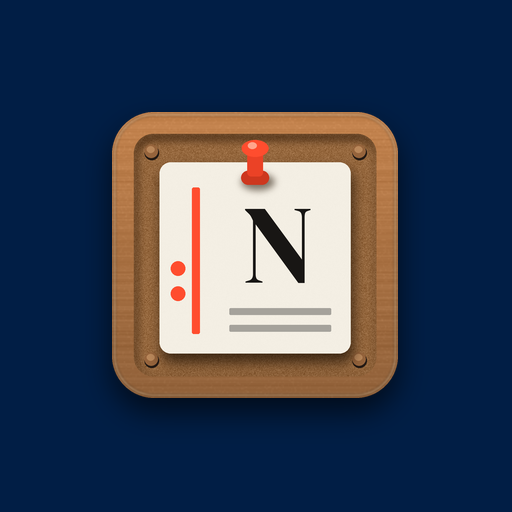
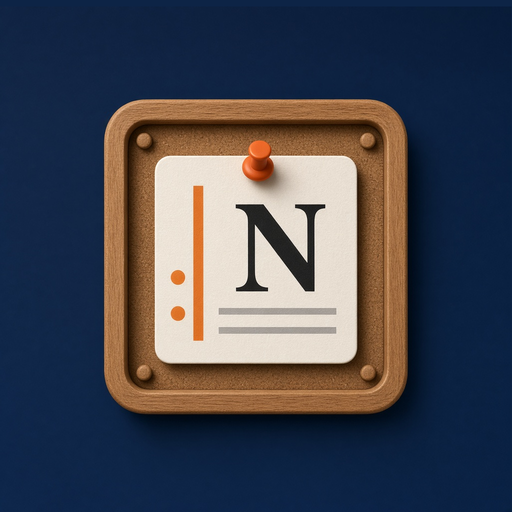
실사 마스터 기반 아이콘·OG·파비콘(48+ 누끼), v11

Changed region(s): [[0.1875, 0.1875, 0.8438, 0.8438]]

diff --git a/politicians/index.html b/politicians/index.html
@@ -6,12 +6,12 @@
 <meta name="viewport" content="width=device-width,initial-scale=1,viewport-fit=cover">
 <title>정치인 DB · NewsBoard</title>
 <meta name="description" content="역대 국회의원 전원의 당선·정당 이력, 발의 법안, 뉴스 타임라인을 출처와 함께 정리한 공인 데이터베이스">
-<meta property="og:type" content="website"><meta property="og:site_name" content="NewsBoard"><meta property="og:title" content="정치인 DB — 역대 국회의원 타임라인"><meta property="og:description" content="당선·정당 이력, 발의 법안, 뉴스 타임라인을 출처와 함께"><meta property="og:image" content="https://pyw31337.github.io/news/og-image.png?v=10"><meta property="og:url" content="https://pyw31337.github.io/news/politicians/">
+<meta property="og:type" content="website"><meta property="og:site_name" content="NewsBoard"><meta property="og:title" content="정치인 DB — 역대 국회의원 타임라인"><meta property="og:description" content="당선·정당 이력, 발의 법안, 뉴스 타임라인을 출처와 함께"><meta property="og:image" content="https://pyw31337.github.io/news/og-image.png?v=11"><meta property="og:url" content="https://pyw31337.github.io/news/politicians/">
 <meta name="theme-color" content="#0f1630">
 <meta name="referrer" content="no-referrer">
 <link rel="manifest" href="manifest.webmanifest">
-<link rel="icon" href="../favicon.ico?v=10" sizes="any"><link rel="icon" type="image/png" href="../icons/favicon-32.png?v=10" sizes="32x32"><link rel="icon" type="image/png" href="../icons/favicon-16.png?v=10" sizes="16x16">
-<link rel="apple-touch-icon" href="../icons/apple-touch-icon.png?v=8">
+<link rel="icon" href="../favicon.ico?v=11" sizes="any"><link rel="icon" type="image/png" href="../icons/favicon-32.png?v=11" sizes="32x32"><link rel="icon" type="image/png" href="../icons/favicon-16.png?v=11" sizes="16x16"><link rel="icon" type="image/png" href="../icons/favicon-192.png?v=11" sizes="192x192">
+<link rel="apple-touch-icon" href="../icons/apple-touch-icon.png?v=11">
 <meta name="apple-mobile-web-app-capable" content="yes">
 <meta name="mobile-web-app-capable" content="yes">
 <meta name="apple-mobile-web-app-status-bar-style" content="black-translucent">

diff --git a/index.html b/index.html
@@ -11,7 +11,7 @@
 <meta property="og:site_name" content="NewsBoard">
 <meta property="og:title" content="NewsBoard — 오늘의 이슈와 사건의 흐름">
 <meta property="og:description" content="포털에서 가장 많이 회자된 오늘의 이슈 10개와, 인물·장소·사건을 따라가는 타임라인">
-<meta property="og:image" content="https://pyw31337.github.io/news/og-image.png?v=10">
+<meta property="og:image" content="https://pyw31337.github.io/news/og-image.png?v=11">
 <meta property="og:image:width" content="1200"><meta property="og:image:height" content="630">
 <meta property="og:url" content="https://pyw31337.github.io/news/">
 <meta property="og:locale" content="ko_KR">
@@ -21,8 +21,8 @@
 <meta name="theme-color" content="#0f1630">
 <meta name="referrer" content="no-referrer">
 <link rel="manifest" href="manifest.webmanifest">
-<link rel="icon" href="favicon.ico?v=10" sizes="any"><link rel="icon" type="image/png" href="icons/favicon-32.png?v=10" sizes="32x32"><link rel="icon" type="image/png" href="icons/favicon-16.png?v=10" sizes="16x16">
-<link rel="apple-touch-icon" href="icons/apple-touch-icon.png?v=8">
+<link rel="icon" href="favicon.ico?v=11" sizes="any"><link rel="icon" type="image/png" href="icons/favicon-32.png?v=11" sizes="32x32"><link rel="icon" type="image/png" href="icons/favicon-16.png?v=11" sizes="16x16"><link rel="icon" type="image/png" href="icons/favicon-192.png?v=11" sizes="192x192">
+<link rel="apple-touch-icon" href="icons/apple-touch-icon.png?v=11">
 <meta name="apple-mobile-web-app-capable" content="yes">
 <meta name="mobile-web-app-capable" content="yes">
 <meta name="apple-mobile-web-app-status-bar-style" content="black-translucent">

diff --git a/admin/index.html b/admin/index.html
@@ -8,7 +8,7 @@
 <meta name="referrer" content="no-referrer">
 <meta name="theme-color" content="#0f1630">
 <title>NewsBoard 관리자</title>
-<link rel="icon" href="../favicon.ico?v=10" sizes="any"><link rel="icon" type="image/png" href="../icons/favicon-32.png?v=10" sizes="32x32"><link rel="icon" type="image/png" href="../icons/favicon-16.png?v=10" sizes="16x16">
+<link rel="icon" href="../favicon.ico?v=11" sizes="any"><link rel="icon" type="image/png" href="../icons/favicon-32.png?v=11" sizes="32x32"><link rel="icon" type="image/png" href="../icons/favicon-16.png?v=11" sizes="16x16"><link rel="icon" type="image/png" href="../icons/favicon-192.png?v=11" sizes="192x192">
 <link rel="stylesheet" href="https://cdn.jsdelivr.net/gh/orioncactus/pretendard@v1.3.9/dist/web/variable/pretendardvariable-dynamic-subset.min.css">
 <link rel="stylesheet" href="admin.css?v=1">
 </head>

diff --git a/sw.js b/sw.js
@@ -1,4 +1,4 @@
-const V='nb-v10',SHELL=['./','index.html','assets/style.css?v=7','assets/app.js?v=7','manifest.webmanifest','icons/icon-192.png','og-image.png','favicon.ico'];
+const V='nb-v11',SHELL=['./','index.html','assets/style.css?v=7','assets/app.js?v=7','manifest.webmanifest','icons/icon-192.png','og-image.png','favicon.ico'];
 self.addEventListener('install',e=>{e.waitUntil(caches.open(V).then(c=>c.addAll(SHELL)));self.skipWaiting()});
 self.addEventListener('activate',e=>{e.waitUntil(caches.keys().then(ks=>Promise.all(ks.filter(k=>k!==V).map(k=>caches.delete(k)))));self.clients.claim()});
 self.addEventListener('fetch',e=>{const u=new URL(e.request.url);if(e.request.method!=='GET'||u.origin!==location.origin)return;

diff --git a/scripts/make_icons_photo.py b/scripts/make_icons_photo.py
@@ -1,0 +1,43 @@
+#!/usr/bin/env python3
+"""실사 마스터(icons/source/s3_photo_master.jpg, 1024 네이비 배경) 기준 아이콘 생성.
+앱아이콘=사진 그대로 축소, 파비콘 48+ = 둥근사각 알파마스크 누끼, OG = 누끼 오브젝트 배치. 16/24/32는 make_small_favicons.py."""
+import os, runpy
+from PIL import Image, ImageDraw, ImageFilter, ImageFont
+R=os.path.join(os.path.dirname(os.path.abspath(__file__)),'..'); I=os.path.join(R,'icons')
+src=Image.open(os.path.join(I,'source/s3_photo_master.jpg')).convert('RGB')
+BOX=(211,187,816,811); RAD=76
+# 앱 아이콘(배경 유지): 오브젝트 중심을 화면 중앙으로 살짝 보정
+cx=(BOX[0]+BOX[2])/2; cy=(BOX[1]+BOX[3])/2
+canvas=src.resize((1024,1024)); pad=Image.new('RGB',(1100,1100),src.getpixel((512,1010)))
+pad.paste(src,(38,38)); full=pad.crop((int(38+cx-512),int(38+cy-512),int(38+cx+512),int(38+cy+512)))
+for n,f in ((512,'icon-512.png'),(192,'icon-192.png'),(180,'apple-touch-icon.png')): full.resize((n,n),Image.LANCZOS).save(os.path.join(I,f))
+# 누끼
+S=4; m=Image.new('L',(1024*S,1024*S),0); ImageDraw.Draw(m).rounded_rectangle([v*S for v in BOX],RAD*S,fill=255)
+m=m.resize((1024,1024),Image.LANCZOS); obj=src.convert('RGBA'); obj.putalpha(m); obj=obj.crop(BOX)
+def withshadow(o,n):
+    w=int(n*.86); h=int(w*o.height/o.width); o=o.resize((w,h),Image.LANCZOS)
+    c=Image.new('RGBA',(n,n),(0,0,0,0)); x=(n-w)//2; y=(n-h)//2-int(n*.02)
+    sh=Image.new('L',(n,n),0); sh.paste(o.split()[3].point(lambda v:v*110//255),(x,y+int(n*.03)))
+    c.paste((0,0,0,255),(0,0),sh.filter(ImageFilter.GaussianBlur(n*.025))); c.alpha_composite(o,(x,y)); return c
+withshadow(obj,512).save(os.path.join(I,'favicon-512.png')); withshadow(obj,192).save(os.path.join(I,'favicon-192.png'))
+f48=obj.resize((48,48),Image.LANCZOS); f48.save(os.path.join(I,'favicon-48.png'))
+# maskable: 오브젝트 50%
+bg=Image.new('RGB',(1024,1024),src.getpixel((512,1010))); bg=full.resize((32,32)).resize((1024,1024),Image.BICUBIC); bg.paste(src.getpixel((60,60)),(0,0,1024,1024))
+o=obj.resize((512,int(512*obj.height/obj.width)),Image.LANCZOS)
+sh=Image.new('L',(1024,1024),0); sh.paste(o.split()[3].point(lambda v:v*150//255),(256,256+24)); bg.paste((0,0,0),(0,0),sh.filter(ImageFilter.GaussianBlur(28)))
+bg.paste(o,(256,256),o); bg.resize((512,512),Image.LANCZOS).save(os.path.join(I,'maskable-512.png'))
+# 소형(픽셀) + ico
+small=runpy.run_path(os.path.join(R,'scripts/make_small_favicons.py'))
+for n in (16,24,32): small['draw'](n).save(os.path.join(I,f'favicon-{n}.png'))
+f48.save(os.path.join(R,'favicon.ico'),sizes=[(16,16),(32,32),(48,48)],append_images=[small['draw'](16),small['draw'](32)])
+# OG
+NAVY=(1,30,69); og=Image.new('RGB',(1200,630),NAVY)
+glow=Image.new('L',og.size,0); ImageDraw.Draw(glow).ellipse((700,70,1180,550),fill=70); og.paste((40,80,140),(0,0),glow.filter(ImageFilter.GaussianBlur(90)))
+w=370; o=obj.resize((w,int(w*obj.height/obj.width)),Image.LANCZOS); x,y=950-w//2,315-o.height//2
+sh=Image.new('L',og.size,0); sh.paste(o.split()[3].point(lambda v:v*170//255),(x,y+20)); og.paste((0,0,0),(0,0),sh.filter(ImageFilter.GaussianBlur(20)))
+og.paste(o,(x,y),o); d=ImageDraw.Draw(og)
+F=lambda s:ImageFont.truetype('/usr/share/fonts/opentype/noto/NotoSansCJK-Bold.ttc',s,index=1)
+OR=(255,77,46); d.rounded_rectangle((96,168,156,176),4,fill=OR)
+d.text((92,300),'NewsBoard',font=F(100),fill='white',anchor='ls'); d.text((96,385),'뉴스를 타임라인으로',font=F(50),fill=OR,anchor='ls')
+d.text((96,470),'pyw31337.github.io/news',font=F(24),fill=(150,165,200),anchor='ls')
+og.save(os.path.join(R,'og-image.png')); print('ok')

diff --git a/scripts/build_pages.py b/scripts/build_pages.py
@@ -5,7 +5,7 @@ import json, os, re, sys, html
 SITE = sys.argv[1] if len(sys.argv) > 1 else '_site'
 ORIGIN = 'https://pyw31337.github.io/news/'
 T = open(os.path.join(SITE, 'index.html'), encoding='utf-8').read()
-DEF_IMG = ORIGIN + 'og-image.png?v=10'
+DEF_IMG = ORIGIN + 'og-image.png?v=11'
 def load(p):
     try: return json.load(open(p, encoding='utf-8'))
     except Exception: return {}
